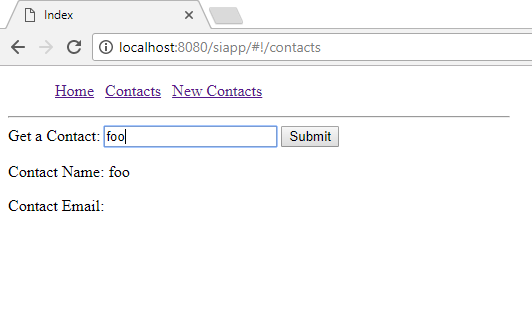
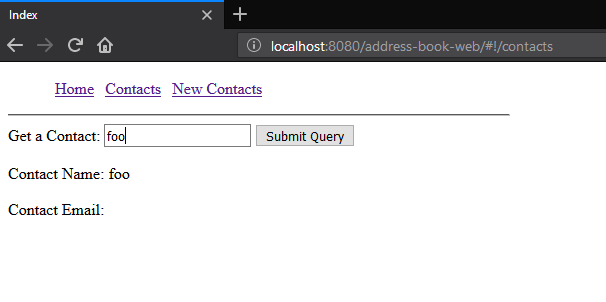
Add multiple module structure and update README

diff --git a/address-book-web/src/main/webapp/js/controllers.js b/address-book-web/src/main/webapp/js/controllers.js
@@ -6,7 +6,7 @@ app.controller('getCtrl', [ '$scope', '$http', function($scope, $http) {
 
         $http({
             method: 'GET',
-            url: 'http://localhost:8080/si-controllers/rest/addressbook/' + $scope.contactName,
+            url: 'http://localhost:8080/address-book-web/rest/address-book/' + $scope.contactName,
             data:{},
             headers: {}
         }).then(function success(response){
@@ -42,7 +42,7 @@ app.controller('postCtrl', [ '$scope', '$http', function($scope, $http) {
 
         $http({
             method: 'POST',
-            url: 'http://localhost:8080/si-controllers/rest/addressbook/newcontact',
+            url: 'http://localhost:8080/address-book-web/rest/address-book/new-contact',
             headers: {'Content-Type': 'application/x-www-form-urlencoded; charset=UTF-8'},
             transformRequest: function(params){
 

diff --git a/address-book-web/src/main/webapp/index.html b/address-book-web/src/main/webapp/index.html
@@ -20,12 +20,12 @@ https://www3.ntu.edu.sg/home/ehchua/programming/webprogramming/AngularJS_Basics.
     <link rel="stylesheet" href="styles/style.css">
     <!--<link rel="stylesheet" href="webjars/bootstrap/3.3.5/css/bootstrap.css">-->
 </head>
-<body ng-app="siApp">
+<body ng-app="addressBookWeb">
 
     <ul id="navigation">
         <li><a href="#!/">Home</a></li>
         <li><a href="#!/contacts">Contacts</a></li>
-        <li><a href="#!/newContacts">New Contacts</a></li>
+        <li><a href="#!/new-contacts">New Contacts</a></li>
     </ul>
 
     <hr width="500" align="left">

diff --git a/address-book-web/src/main/webapp/js/app.js b/address-book-web/src/main/webapp/js/app.js
@@ -1,4 +1,4 @@
-var app = angular.module('siApp', ['ngRoute']);
+var app = angular.module('addressBookWeb', ['ngRoute']);
 
 app.config(['$locationProvider', '$routeProvider', function($locationProvider, $routeProvider){
 
@@ -10,7 +10,7 @@ app.config(['$locationProvider', '$routeProvider', function($locationProvider, $
             templateUrl: "views/contacts.html",
             controller: 'getCtrl'
         })
-        .when("/newContacts", {
+        .when("/new-contacts", {
             templateUrl: "views/newContacts.html",
             controller: 'postCtrl'
         })

diff --git a/address-book-web/src/main/java/controllers/AddressBookController.java b/address-book-web/src/main/java/controllers/AddressBookController.java
@@ -10,7 +10,7 @@ import javax.ws.rs.core.MediaType;
 import javax.ws.rs.core.Response;
 
 @Controller
-@Path("/addressbook")
+@Path("/address-book")
 @Consumes(MediaType.APPLICATION_FORM_URLENCODED)
 @Produces(MediaType.APPLICATION_JSON)
 public class AddressBookController {
@@ -28,7 +28,7 @@ public class AddressBookController {
     }
 
     @POST
-    @Path("/newcontact")
+    @Path("/new-contact")
     public Response postContact(@FormParam("name") String name,
                                 @FormParam("email") String email){
 
